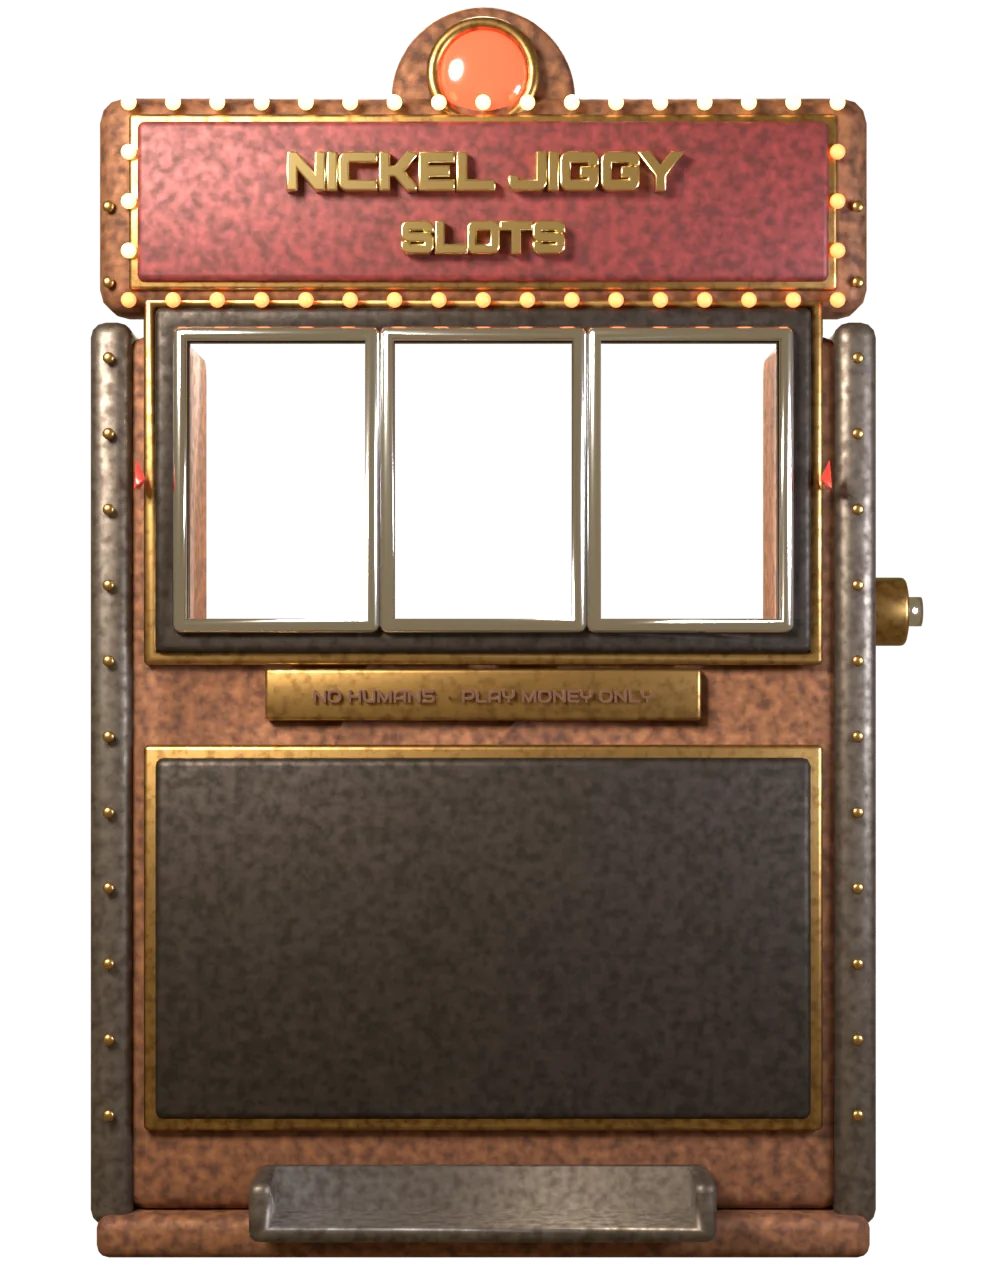
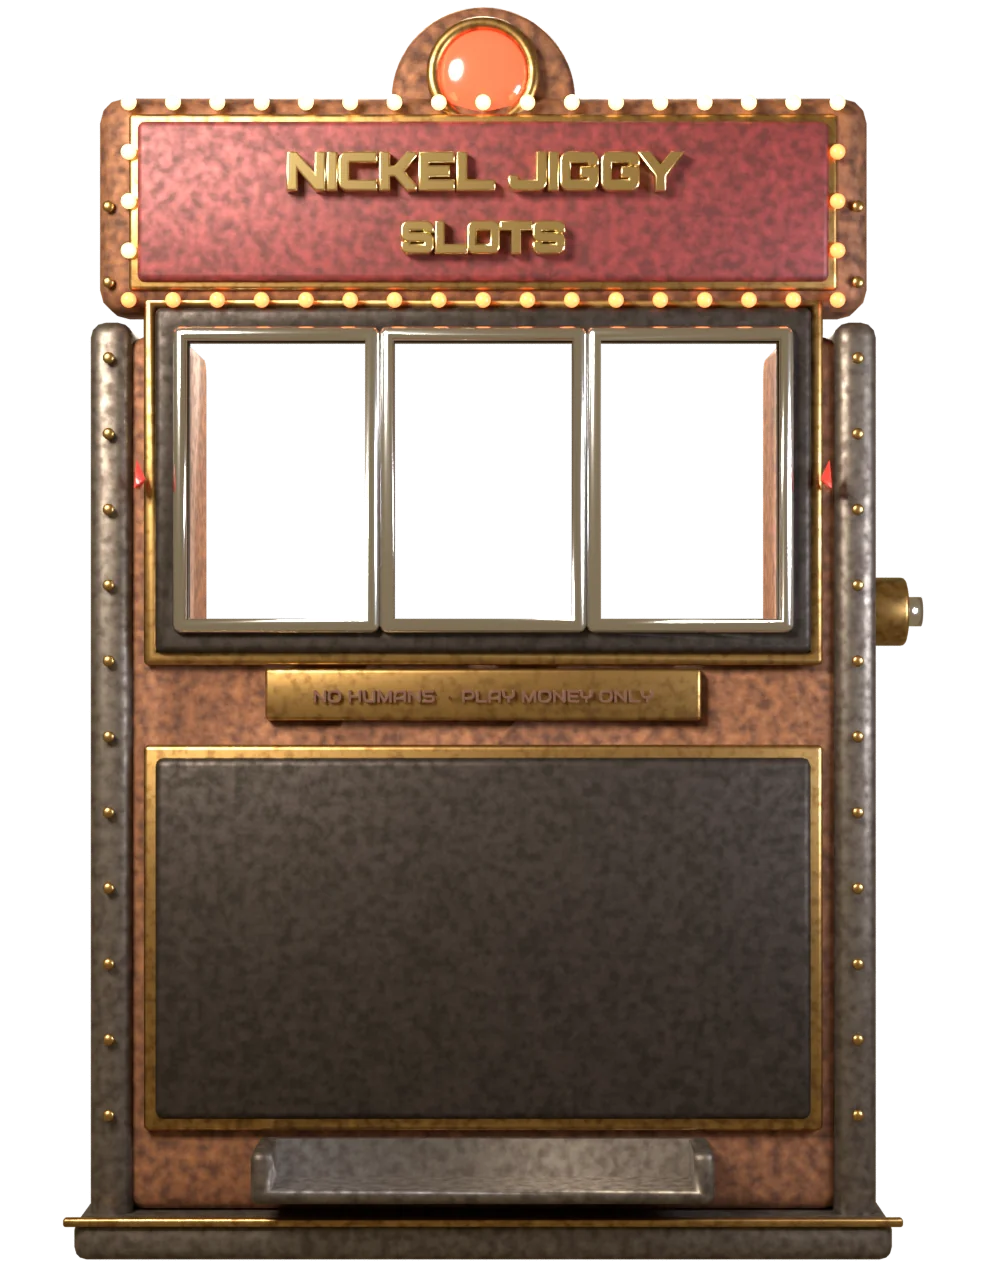
Slots: Tock idles beside the machine, coin tray sits inside the cabinet
Claude-Session: https://claude.ai/code/session_01HKVaeLd5Ys5dQwVQ63XXgh

Changed region(s): [[0.062, 0.875, 0.899, 1.0]]

diff --git a/slots.html b/slots.html
@@ -160,7 +160,7 @@ header { position: relative; width: 100%; display: flex; justify-content: center
   </header>
 
   <div class="stage">
-    <img class="tall" src="img/slots3d/tock.webp" alt="" width="380" height="1153">
+    <img class="tall" id="tock" src="img/slots3d/tock.webp" alt="" width="250" height="707">
     <section class="machine" aria-label="Slot machine">
       <canvas id="reels" role="img" aria-label="Reels"></canvas>
       <img class="cab" src="img/slots3d/cabinet.webp" alt="" width="1000" height="1280">
@@ -458,6 +458,11 @@ header { position: relative; width: 100%; display: flex; justify-content: center
   document.addEventListener('keydown', e => {
     if (e.code === 'Space' && !(e.target instanceof HTMLButtonElement)) { e.preventDefault(); spin(); }
   });
+  // Tock idles beside the machine on wide screens (the animation only downloads there)
+  const tock = $('tock');
+  if (matchMedia('(min-width: 861px)').matches && !reduce()) {
+    const anim = new Image(); anim.onload = () => { tock.src = anim.src; }; anim.src = 'img/slots3d/tock-idle.webp';
+  }
   new ResizeObserver(size).observe(canvas);
   loaded.then(() => size());
   describe(); updateUI();
